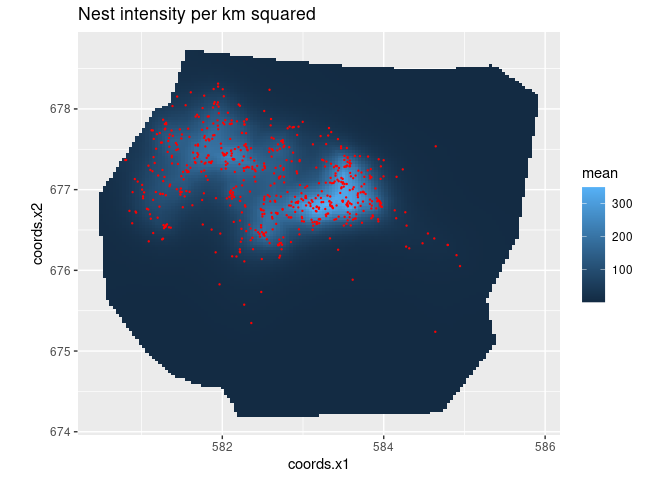
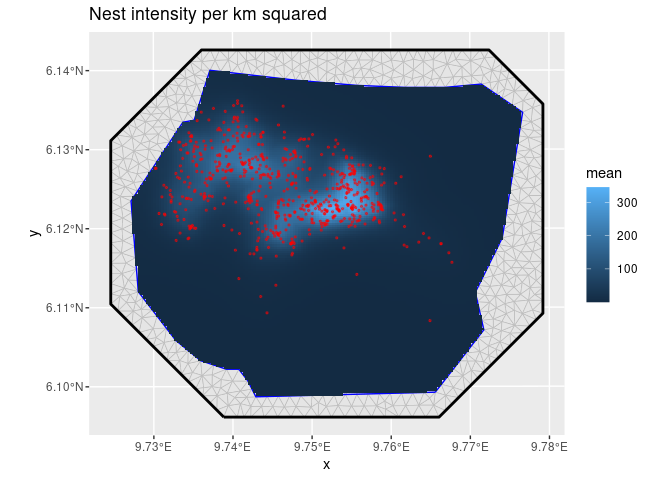
Update NEWS and README for gg.sf and geom_fm

diff --git a/README.md b/README.md
@@ -89,64 +89,52 @@ Gaussian Cox Process (LGCP) and predicts its intensity:
 
 ``` r
 # Load libraries
-library(inlabru)
 library(INLA)
 #> Loading required package: Matrix
-#> This is INLA_23.06.15 built 2023-06-15 06:01:53 UTC.
+#> This is INLA_99.99.9999 built 2023-08-07 00:03:43 UTC.
 #>  - See www.r-inla.org/contact-us for how to get help.
+library(inlabru)
+library(fmesher)
 library(ggplot2)
-bru_safe_sp(force = TRUE) # Ensures sp works without rgdal installed
-
-# Load the data
-data(gorillas, package = "inlabru")
+#> 
+#> Attaching package: 'ggplot2'
+#> The following object is masked from 'package:inlabru':
+#> 
+#>     seals
 
 # Construct latent model components
-matern <- inla.spde2.pcmatern(gorillas$mesh,
+matern <- inla.spde2.pcmatern(
+  gorillas_sf$mesh,
   prior.sigma = c(0.1, 0.01),
   prior.range = c(0.01, 0.01)
 )
-cmp <- ~ mySmooth(coordinates, model = matern) + Intercept(1)
+cmp <- ~ mySmooth(geometry, model = matern) + Intercept(1)
 # Fit LGCP model
 # This particular bru/like combination has a shortcut function lgcp() as well
 fit <- bru(
-  components = cmp,
+  cmp,
   like(
-    formula = coordinates ~ .,
+    formula = geometry ~ .,
     family = "cp",
-    data = gorillas$nests,
-    samplers = gorillas$boundary,
-    domain = list(coordinates = gorillas$mesh)
+    data = gorillas_sf$nests,
+    samplers = gorillas_sf$boundary,
+    domain = list(geometry = gorillas_sf$mesh)
   ),
   options = list(control.inla = list(int.strategy = "eb"))
 )
-#> Please note that rgdal will be retired during October 2023,
-#> plan transition to sf/stars/terra functions using GDAL and PROJ
-#> at your earliest convenience.
-#> See https://r-spatial.org/r/2023/05/15/evolution4.html and https://github.com/r-spatial/evolution
-#> rgdal: version: 1.6-7, (SVN revision 1203)
-#> Geospatial Data Abstraction Library extensions to R successfully loaded
-#> Loaded GDAL runtime: GDAL 3.4.1, released 2021/12/27
-#> Path to GDAL shared files: /usr/share/gdal
-#> GDAL binary built with GEOS: TRUE 
-#> Loaded PROJ runtime: Rel. 8.2.1, January 1st, 2022, [PJ_VERSION: 821]
-#> Path to PROJ shared files: /home/flindgre/.local/share/proj:/usr/share/proj
-#> PROJ CDN enabled: FALSE
-#> Linking to sp version:1.6-1
-#> To mute warnings of possible GDAL/OSR exportToProj4() degradation,
-#> use options("rgdal_show_exportToProj4_warnings"="none") before loading sp or rgdal.
 
 # Predict Gorilla nest intensity
 lambda <- predict(
   fit,
-  fm_pixels(gorillas$mesh, mask = gorillas$boundary, format = "sp"),
+  fm_pixels(gorillas_sf$mesh, mask = gorillas_sf$boundary),
   ~ exp(mySmooth + Intercept)
 )
 
 # Plot the result
 ggplot() +
-  gg(lambda) +
-  gg(gorillas$nests, color = "red", size = 0.2) +
-  coord_equal() +
+  geom_fm(data = gorillas_sf$mesh) +
+  gg(lambda, geom = "tile") +
+  gg(gorillas$nests, color = "red", size = 0.5, alpha = 0.5) +
   ggtitle("Nest intensity per km squared")
 ```
 

diff --git a/NEWS.md b/NEWS.md
@@ -3,9 +3,11 @@
 ## Feature updates
 
 * Conversion of code to use `fmesher` for mesh and geometry handling;
-  the interface supports exisiting objects and methods.
+  the interface supports existing objects and methods.
   See https://inlabru-org.github.io/fmesher/articles/inla_conversion.html for
   more information.
+
+* Added `gg.sf()` method.
 
 * Add experimental support for `stars` via `eval_spatial()`.
   (version `2.8.0.9007`)
